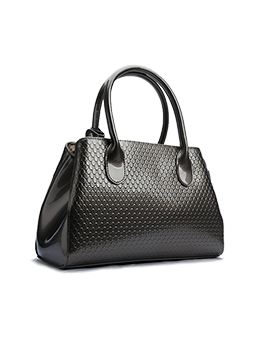
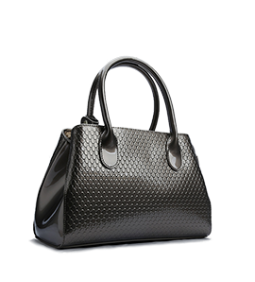
fixing images sizes

Changed region(s): [[0.1098, 0.1702, 0.851, 0.9078]]

diff --git a/html-css/module-04/index.html b/html-css/module-04/index.html
@@ -69,7 +69,7 @@
         <p class="product-price">$26</p>
       </li>
       <li class="product-item">
-        <img src="../module-04/images/products/product5.png" alt="Yellow Tshirt Picture" width="255" height="282"class="product-image">
+        <img src="../module-04/images/products/product8.png" alt="Yellow Tshirt Picture" width="255" height="282"class="product-image">
         <h3 class="product-name">Yellow Tshirt</h3>
         <p class="product-price">$26</p>
       </li>

diff --git a/html-css/module-04/css/styles.css b/html-css/module-04/css/styles.css
@@ -92,7 +92,7 @@ body {
     width: 160px;
     height: 7px;
     background-color: #1abc9c;
-    margin: 24px auto 92px auto;
+    margin: 24px auto 80px auto;
   }
   
   .products {
@@ -183,9 +183,10 @@ body {
   .news-title {
     font-size: 14px;
     text-align: left;
-    line-height: 24px;
+    line-height: 22px;
     font-family: 'Open Sans', sans-serif;
     font-weight: 600;
+    margin-bottom: 2px;
   }
   
   .news-title::after {
